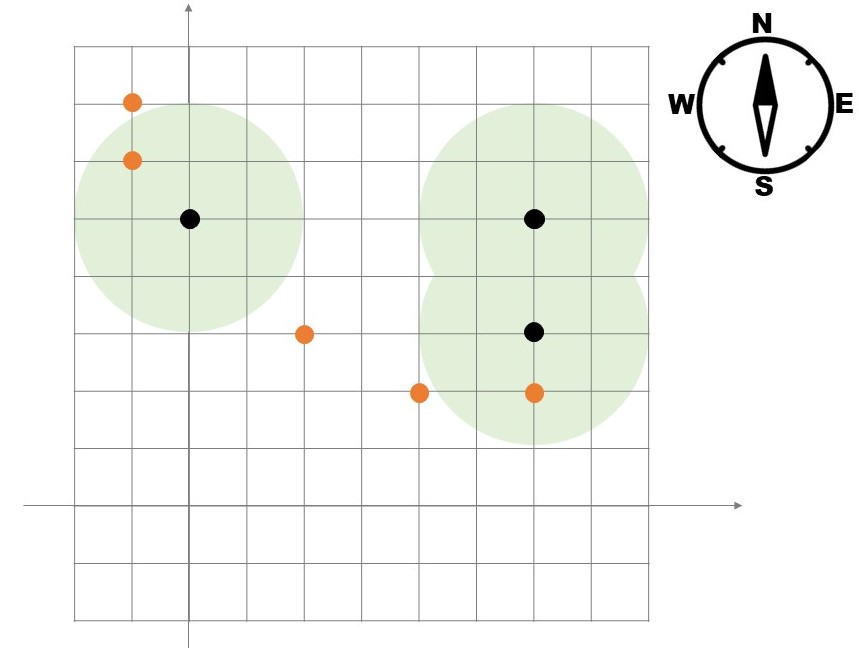
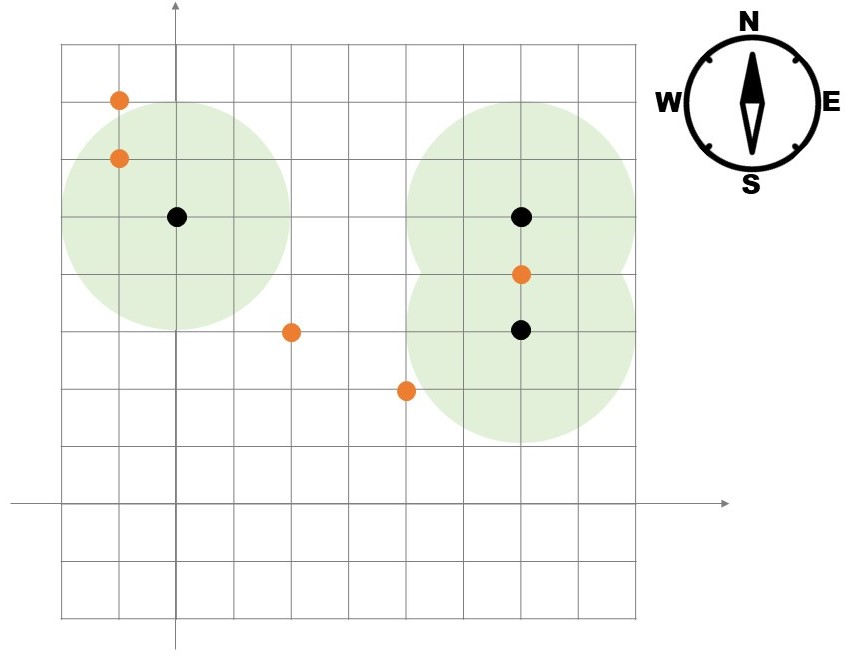
update sample-case

diff --git a/nokemon/statement.md b/nokemon/statement.md
@@ -55,9 +55,9 @@ $(x_i, y_i)$ は $i$ 匹目のノケモンのいる座標。
 6 3
 -1 6
 -1 7
-3 4
+2 3
 4 2
-6 2
+6 4
 1 2 0
 3 0
 2 0
